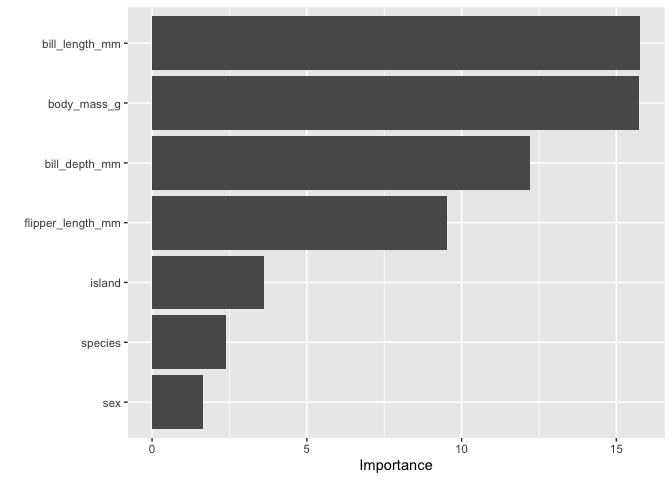
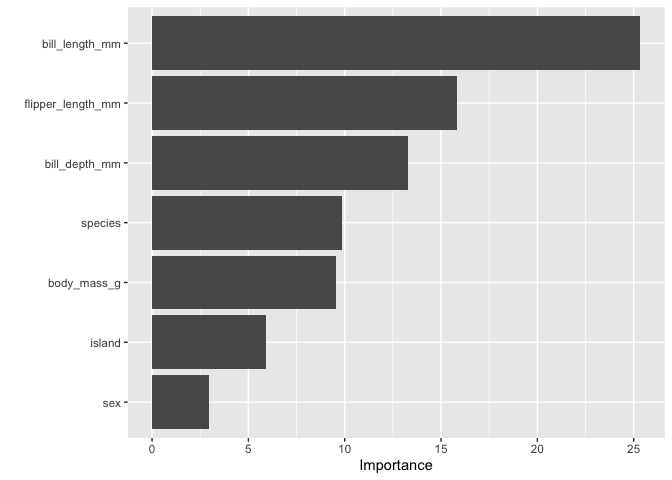
Rerun README

diff --git a/README.md b/README.md
@@ -76,7 +76,6 @@ util_proportions(
 ```
 
     # A tibble: 2 × 5
-    # Groups:   variable [1]
       variable class  synthetic original difference
       <chr>    <fct>      <dbl>    <dbl>      <dbl>
     1 sex      female     0.529    0.495     0.0330
@@ -92,7 +91,6 @@ util_proportions(
 ```
 
     # A tibble: 8 × 5
-    # Groups:   variable [3]
       variable class     synthetic original difference
       <chr>    <fct>         <dbl>    <dbl>      <dbl>
     1 island   Biscoe        0.465    0.489    -0.0240
@@ -470,16 +468,16 @@ disc1 |>
     # A tibble: 666 × 10
        .pred_synthetic .source_label .sample  species island    sex   bill_length_mm
                  <dbl> <fct>         <chr>    <fct>   <fct>     <fct>          <dbl>
-     1           0.290 original      training Adelie  Torgersen male            39.1
-     2           0.290 original      training Adelie  Torgersen fema…           39.5
-     3           0.290 original      training Adelie  Torgersen fema…           40.3
-     4           0.656 original      training Adelie  Torgersen fema…           36.7
-     5           0.290 original      testing  Adelie  Torgersen male            39.3
-     6           0.290 original      training Adelie  Torgersen fema…           38.9
-     7           0.290 original      testing  Adelie  Torgersen male            39.2
-     8           0.290 original      training Adelie  Torgersen fema…           41.1
-     9           0.290 original      testing  Adelie  Torgersen male            38.6
-    10           0.656 original      training Adelie  Torgersen male            34.6
+     1          0.0556 original      training Adelie  Torgersen male            39.1
+     2          0.355  original      training Adelie  Torgersen fema…           39.5
+     3          0.636  original      training Adelie  Torgersen fema…           40.3
+     4          0.375  original      training Adelie  Torgersen fema…           36.7
+     5          0.76   original      testing  Adelie  Torgersen male            39.3
+     6          0.355  original      training Adelie  Torgersen fema…           38.9
+     7          0.375  original      training Adelie  Torgersen male            39.2
+     8          0.355  original      training Adelie  Torgersen fema…           41.1
+     9          0.4    original      training Adelie  Torgersen male            38.6
+    10          0.789  original      testing  Adelie  Torgersen male            34.6
     # ℹ 656 more rows
     # ℹ 3 more variables: bill_depth_mm <dbl>, flipper_length_mm <dbl>,
     #   body_mass_g <dbl>
@@ -498,66 +496,66 @@ disc1 |>
     node), split, n, loss, yval, (yprob)
           * denotes terminal node
 
-       1) root 498 249 synthetic (0.5000000 0.5000000)  
-         2) bill_length_mm< 38.25 115  46 synthetic (0.6000000 0.4000000)  
-           4) body_mass_g>=3187.5 90  31 synthetic (0.6555556 0.3444444) *
-           5) body_mass_g< 3187.5 25  10 original (0.4000000 0.6000000)  
-            10) bill_depth_mm>=17.6 11   4 synthetic (0.6363636 0.3636364) *
-            11) bill_depth_mm< 17.6 14   3 original (0.2142857 0.7857143) *
-         3) bill_length_mm>=38.25 383 180 original (0.4699739 0.5300261)  
-           6) island=Biscoe,Dream 352 171 original (0.4857955 0.5142045)  
-            12) body_mass_g< 3375 28   9 synthetic (0.6785714 0.3214286) *
-            13) body_mass_g>=3375 324 152 original (0.4691358 0.5308642)  
-              26) bill_length_mm>=41.2 280 136 original (0.4857143 0.5142857)  
-                52) flipper_length_mm< 189.5 18   4 synthetic (0.7777778 0.2222222) *
-                53) flipper_length_mm>=189.5 262 122 original (0.4656489 0.5343511)  
-                 106) body_mass_g>=3587.5 252 120 original (0.4761905 0.5238095)  
-                   212) flipper_length_mm< 192.5 15   5 synthetic (0.6666667 0.3333333) *
-                   213) flipper_length_mm>=192.5 237 110 original (0.4641350 0.5358650)  
-                     426) body_mass_g>=4287.5 185  91 original (0.4918919 0.5081081)  
-                       852) bill_length_mm>=50.45 40  15 synthetic (0.6250000 0.3750000)  
-                        1704) bill_length_mm< 52.35 30   8 synthetic (0.7333333 0.2666667) *
-                        1705) bill_length_mm>=52.35 10   3 original (0.3000000 0.7000000) *
-                       853) bill_length_mm< 50.45 145  66 original (0.4551724 0.5448276)  
-                        1706) bill_length_mm< 47.05 80  37 synthetic (0.5375000 0.4625000)  
-                          3412) bill_length_mm>=46.65 8   1 synthetic (0.8750000 0.1250000) *
-                          3413) bill_length_mm< 46.65 72  36 synthetic (0.5000000 0.5000000)  
-                            6826) body_mass_g< 5025 58  26 synthetic (0.5517241 0.4482759) *
-                            6827) body_mass_g>=5025 14   4 original (0.2857143 0.7142857) *
-                        1707) bill_length_mm>=47.05 65  23 original (0.3538462 0.6461538)  
-                          3414) bill_depth_mm>=15.65 28  14 synthetic (0.5000000 0.5000000)  
-                            6828) body_mass_g< 5525 12   3 synthetic (0.7500000 0.2500000) *
-                            6829) body_mass_g>=5525 16   5 original (0.3125000 0.6875000) *
-                          3415) bill_depth_mm< 15.65 37   9 original (0.2432432 0.7567568) *
-                     427) body_mass_g< 4287.5 52  19 original (0.3653846 0.6346154)  
-                       854) bill_depth_mm>=19.65 12   4 synthetic (0.6666667 0.3333333) *
-                       855) bill_depth_mm< 19.65 40  11 original (0.2750000 0.7250000) *
-                 107) body_mass_g< 3587.5 10   2 original (0.2000000 0.8000000) *
-              27) bill_length_mm< 41.2 44  16 original (0.3636364 0.6363636)  
-                54) bill_depth_mm>=18.95 17   7 synthetic (0.5882353 0.4117647) *
-                55) bill_depth_mm< 18.95 27   6 original (0.2222222 0.7777778) *
-           7) island=Torgersen 31   9 original (0.2903226 0.7096774) *
+       1) root 498 249 synthetic (0.50000000 0.50000000)  
+         2) bill_length_mm< 34.8 19   4 synthetic (0.78947368 0.21052632) *
+         3) bill_length_mm>=34.8 479 234 original (0.48851775 0.51148225)  
+           6) bill_depth_mm>=18.85 99  44 synthetic (0.55555556 0.44444444)  
+            12) bill_length_mm< 50.35 85  32 synthetic (0.62352941 0.37647059)  
+              24) species=Chinstrap 21   2 synthetic (0.90476190 0.09523810) *
+              25) species=Adelie 64  30 synthetic (0.53125000 0.46875000)  
+                50) flipper_length_mm< 192.5 40  15 synthetic (0.62500000 0.37500000)  
+                 100) bill_length_mm>=38.9 25   6 synthetic (0.76000000 0.24000000) *
+                 101) bill_length_mm< 38.9 15   6 original (0.40000000 0.60000000) *
+                51) flipper_length_mm>=192.5 24   9 original (0.37500000 0.62500000) *
+            13) bill_length_mm>=50.35 14   2 original (0.14285714 0.85714286) *
+           7) bill_depth_mm< 18.85 380 179 original (0.47105263 0.52894737)  
+            14) bill_length_mm>=50.55 45  17 synthetic (0.62222222 0.37777778) *
+            15) bill_length_mm< 50.55 335 151 original (0.45074627 0.54925373)  
+              30) bill_length_mm< 46.05 218 107 original (0.49082569 0.50917431)  
+                60) bill_depth_mm< 18.25 177  83 synthetic (0.53107345 0.46892655)  
+                 120) bill_depth_mm>=13.75 169  77 synthetic (0.54437870 0.45562130)  
+                   240) bill_length_mm>=36.55 142  61 synthetic (0.57042254 0.42957746)  
+                     480) bill_length_mm< 38.35 27   8 synthetic (0.70370370 0.29629630) *
+                     481) bill_length_mm>=38.35 115  53 synthetic (0.53913043 0.46086957)  
+                       962) bill_length_mm>=41.65 73  29 synthetic (0.60273973 0.39726027) *
+                       963) bill_length_mm< 41.65 42  18 original (0.42857143 0.57142857)  
+                        1926) flipper_length_mm>=193.5 11   4 synthetic (0.63636364 0.36363636) *
+                        1927) flipper_length_mm< 193.5 31  11 original (0.35483871 0.64516129) *
+                   241) bill_length_mm< 36.55 27  11 original (0.40740741 0.59259259) *
+                 121) bill_depth_mm< 13.75 8   2 original (0.25000000 0.75000000) *
+                61) bill_depth_mm>=18.25 41  13 original (0.31707317 0.68292683)  
+                 122) flipper_length_mm>=191.5 23  11 synthetic (0.52173913 0.47826087)  
+                   244) bill_depth_mm>=18.55 10   2 synthetic (0.80000000 0.20000000) *
+                   245) bill_depth_mm< 18.55 13   4 original (0.30769231 0.69230769) *
+                 123) flipper_length_mm< 191.5 18   1 original (0.05555556 0.94444444) *
+              31) bill_length_mm>=46.05 117  44 original (0.37606838 0.62393162)  
+                62) flipper_length_mm>=229.5 9   3 synthetic (0.66666667 0.33333333) *
+                63) flipper_length_mm< 229.5 108  38 original (0.35185185 0.64814815)  
+                 126) flipper_length_mm< 214.5 54  24 original (0.44444444 0.55555556)  
+                   252) body_mass_g>=3925 26  10 synthetic (0.61538462 0.38461538) *
+                   253) body_mass_g< 3925 28   8 original (0.28571429 0.71428571) *
+                 127) flipper_length_mm>=214.5 54  14 original (0.25925926 0.74074074) *
 
     $discriminator_auc
     # A tibble: 2 × 4
       .sample  .metric .estimator .estimate
       <fct>    <chr>   <chr>          <dbl>
-    1 training roc_auc binary         0.726
-    2 testing  roc_auc binary         0.449
+    1 training roc_auc binary         0.743
+    2 testing  roc_auc binary         0.461
 
     $pmse
     # A tibble: 2 × 4
       .source   .pmse .null_pmse .pmse_ratio
       <fct>     <dbl>      <dbl>       <dbl>
-    1 training 0.0417     0.0374        1.12
-    2 testing  0.0450     0.0361        1.25
+    1 training 0.0465     0.0327        1.42
+    2 testing  0.0483     0.0325        1.49
 
     $specks
     # A tibble: 2 × 2
       .source  .specks
       <fct>      <dbl>
-    1 training   0.382
-    2 testing    0.107
+    1 training  0.386 
+    2 testing   0.0833
 
     attr(,"class")
     [1] "discrimination"
@@ -655,16 +653,16 @@ disc2 |>
     # A tibble: 666 × 10
        .pred_synthetic .source_label .sample  species island    sex   bill_length_mm
                  <dbl> <fct>         <chr>    <fct>   <fct>     <fct>          <dbl>
-     1           0.439 original      testing  Adelie  Torgersen male            39.1
-     2           0.483 original      testing  Adelie  Torgersen fema…           39.5
-     3           0.461 original      training Adelie  Torgersen fema…           40.3
-     4           0.499 original      training Adelie  Torgersen fema…           36.7
-     5           0.443 original      training Adelie  Torgersen male            39.3
-     6           0.511 original      training Adelie  Torgersen fema…           38.9
-     7           0.416 original      testing  Adelie  Torgersen male            39.2
-     8           0.492 original      training Adelie  Torgersen fema…           41.1
-     9           0.456 original      training Adelie  Torgersen male            38.6
-    10           0.447 original      training Adelie  Torgersen male            34.6
+     1             0.5 original      training Adelie  Torgersen male            39.1
+     2             0.5 original      training Adelie  Torgersen fema…           39.5
+     3             0.5 original      training Adelie  Torgersen fema…           40.3
+     4             0.5 original      training Adelie  Torgersen fema…           36.7
+     5             0.5 original      testing  Adelie  Torgersen male            39.3
+     6             0.5 original      testing  Adelie  Torgersen fema…           38.9
+     7             0.5 original      training Adelie  Torgersen male            39.2
+     8             0.5 original      training Adelie  Torgersen fema…           41.1
+     9             0.5 original      training Adelie  Torgersen male            38.6
+    10             0.5 original      testing  Adelie  Torgersen male            34.6
     # ℹ 656 more rows
     # ℹ 3 more variables: bill_depth_mm <dbl>, flipper_length_mm <dbl>,
     #   body_mass_g <dbl>
@@ -686,76 +684,76 @@ disc2 |>
     Call:  glmnet::glmnet(x = maybe_matrix(x), y = y, family = "binomial",      alpha = ~1) 
 
        Df %Dev   Lambda
-    1   0 0.00 0.047070
-    2   1 0.11 0.042890
-    3   1 0.20 0.039080
-    4   1 0.27 0.035600
-    5   2 0.37 0.032440
-    6   2 0.48 0.029560
-    7   3 0.57 0.026930
-    8   3 0.65 0.024540
-    9   4 0.74 0.022360
-    10  5 0.85 0.020370
-    11  6 0.97 0.018560
-    12  6 1.09 0.016920
-    13  6 1.20 0.015410
-    14  6 1.29 0.014040
-    15  6 1.36 0.012800
-    16  6 1.42 0.011660
-    17  6 1.48 0.010620
-    18  6 1.52 0.009679
-    19  7 1.56 0.008820
-    20  8 1.60 0.008036
-    21  8 1.64 0.007322
-    22  8 1.67 0.006672
-    23  8 1.69 0.006079
-    24  9 1.73 0.005539
-    25  9 1.79 0.005047
-    26  9 1.84 0.004599
-    27 10 1.88 0.004190
-    28 10 1.91 0.003818
-    29 11 1.94 0.003479
-    30 11 1.96 0.003170
-    31 11 1.98 0.002888
-    32 11 2.00 0.002631
-    33 11 2.01 0.002398
-    34 12 2.03 0.002185
-    35 12 2.04 0.001991
-    36 12 2.05 0.001814
-    37 12 2.06 0.001653
-    38 12 2.06 0.001506
-    39 13 2.07 0.001372
-    40 13 2.08 0.001250
-    41 13 2.08 0.001139
-    42 13 2.09 0.001038
-    43 13 2.09 0.000946
-    44 13 2.09 0.000862
-    45 13 2.10 0.000785
-    46 13 2.10 0.000715
+    1   0 0.00 0.041780
+    2   1 0.09 0.038070
+    3   1 0.16 0.034680
+    4   1 0.22 0.031600
+    5   2 0.27 0.028800
+    6   2 0.36 0.026240
+    7   2 0.43 0.023910
+    8   4 0.51 0.021780
+    9   4 0.58 0.019850
+    10  4 0.63 0.018080
+    11  4 0.68 0.016480
+    12  6 0.72 0.015010
+    13  6 0.78 0.013680
+    14  6 0.83 0.012460
+    15  6 0.87 0.011360
+    16  7 0.90 0.010350
+    17  7 0.94 0.009429
+    18  7 0.97 0.008592
+    19  7 0.99 0.007828
+    20  7 1.02 0.007133
+    21  8 1.06 0.006499
+    22  8 1.15 0.005922
+    23  8 1.22 0.005396
+    24  9 1.29 0.004916
+    25  9 1.34 0.004480
+    26 11 1.39 0.004082
+    27 11 1.44 0.003719
+    28 11 1.49 0.003389
+    29 11 1.53 0.003088
+    30 11 1.56 0.002813
+    31 11 1.58 0.002563
+    32 11 1.61 0.002336
+    33 11 1.62 0.002128
+    34 11 1.64 0.001939
+    35 11 1.65 0.001767
+    36 12 1.66 0.001610
+    37 12 1.68 0.001467
+    38 12 1.69 0.001337
+    39 12 1.70 0.001218
+    40 11 1.70 0.001110
+    41 11 1.71 0.001011
+    42 11 1.71 0.000921
+    43 11 1.72 0.000839
+    44 11 1.72 0.000765
+    45 11 1.72 0.000697
+    46 11 1.73 0.000635
 
     ...
-    and 5 more lines.
+    and 6 more lines.
 
     $discriminator_auc
     # A tibble: 2 × 4
       .sample  .metric .estimator .estimate
       <fct>    <chr>   <chr>          <dbl>
-    1 training roc_auc binary         0.589
-    2 testing  roc_auc binary         0.428
+    1 training roc_auc binary           0.5
+    2 testing  roc_auc binary           0.5
 
     $pmse
     # A tibble: 2 × 4
-      .source    .pmse .null_pmse .pmse_ratio
-      <fct>      <dbl>      <dbl>       <dbl>
-    1 training 0.00385    0.00272        1.41
-    2 testing  0.00413    0.00280        1.47
+      .source     .pmse .null_pmse .pmse_ratio
+      <fct>       <dbl>      <dbl>       <dbl>
+    1 training 1.23e-32   1.23e-32           1
+    2 testing  1.23e-32   1.23e-32           1
 
     $specks
     # A tibble: 2 × 2
-      .source  .specks
-      <fct>      <dbl>
-    1 training   0.137
-    2 testing    0.131
+      .source   .specks
+      <fct>       <dbl>
+    1 training 4.86e-17
+    2 testing  6.94e-17
 
     attr(,"class")
     [1] "discrimination"
